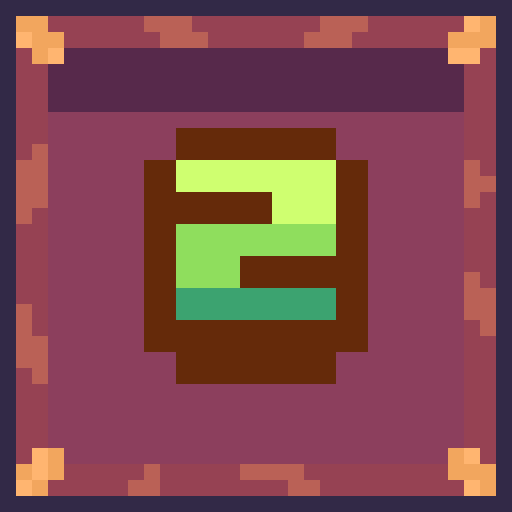
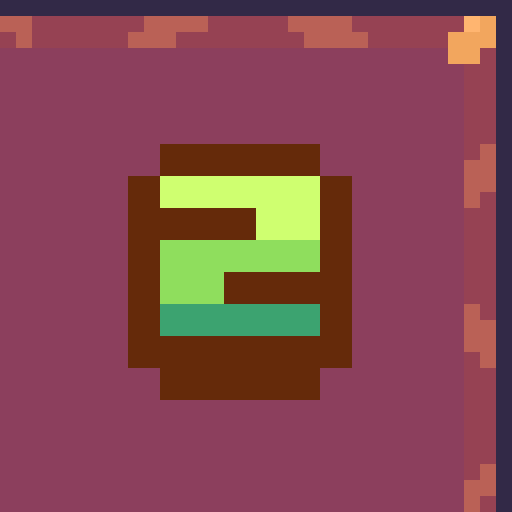
informações na tela de controle

diff --git a/App/TelaControle.java b/App/TelaControle.java
@@ -9,7 +9,7 @@ import java.awt.event.ActionEvent;
 import java.awt.event.ActionListener;
 
 public class TelaControle {
-	private JButton mochilaButton, setaCimaButton, setaEsqButton ,setaDirButton, setaBaixoButton;
+	private JButton mochilaButton, fimTurnoButton, setaCimaButton, setaEsqButton ,setaDirButton, setaBaixoButton;
     private JFrame telaControle;
     private JPanel painelControle;
     private JFrame telaMochila;
@@ -47,6 +47,7 @@ public class TelaControle {
         painelControle.setPreferredSize(new Dimension(300, 300));
 
         mochilaButton = criarBotaoControle("/Controles/mochila_ctrl.png", 100, 100, 100, 100);
+        fimTurnoButton = criarBotaoControle("/Controles/fim_turno.png", 100, 100, 0, 0);
 
         setaCimaButton = criarBotaoControle("/Controles/seta_cima.png", 100, 100, 100, 0);
         setaEsqButton = criarBotaoControle("/Controles/seta_esq.png", 100, 100, 0, 100);
@@ -55,6 +56,7 @@ public class TelaControle {
 
         // Adicionar os botões ao painel
         painelControle.add(mochilaButton);
+        painelControle.add(fimTurnoButton);
         painelControle.add(setaCimaButton);
         painelControle.add(setaEsqButton);
         painelControle.add(setaDirButton);
@@ -64,6 +66,11 @@ public class TelaControle {
             alternarMochila(jogadorAtual); // Alterna entre abrir ou fechar a mochila
             atualizarEstadoSetas(); // Atualiza as setas de acordo com o estado da mochila
         });
+        
+        fimTurnoButton.addActionListener(e -> {
+            finalizarTurno();
+        });
+
 
         
         configurarControles();
@@ -149,7 +156,7 @@ public class TelaControle {
         botao.setFocusPainted(false);
         botao.setContentAreaFilled(false);
         botao.setBounds(x, y, largura, altura);
-
+        
         return botao;
     }
     
@@ -179,17 +186,14 @@ public class TelaControle {
 
 
     private void gerarImagens(Graphics g, int matriz, int tamanhoImagem) {
-        ImageIcon canto1 = new ImageIcon(Menu.class.getResource("/Controles/canto1.png"));
-        ImageIcon canto2 = new ImageIcon(Menu.class.getResource("/Controles/canto2.png"));
+        ImageIcon canto2 = new ImageIcon(Menu.class.getResource(jogadorAtual.getDado()));
         ImageIcon canto3 = new ImageIcon(Menu.class.getResource("/Controles/canto3.png"));
-        ImageIcon canto4 = new ImageIcon(Menu.class.getResource("/Controles/canto4.png"));
+        ImageIcon canto4 = new ImageIcon(Menu.class.getResource(jogadorAtual.imgControle()));
     	
-        Image canto1Img = canto1.getImage();
         Image canto2Img = canto2.getImage();
         Image canto3Img = canto3.getImage();
         Image canto4Img = canto4.getImage();
     	
-        colocarElemento(g, canto1Img, new Point(0,0), tamanhoImagem);
         colocarElemento(g, canto2Img, new Point(2,0), tamanhoImagem);
         colocarElemento(g, canto3Img, new Point(0,2), tamanhoImagem);
         colocarElemento(g, canto4Img, new Point(2,2), tamanhoImagem);
@@ -228,13 +232,13 @@ public class TelaControle {
 
 
     private void moverJogador(Point destino) {
-    	int antigoX = jogadorAtual.getPosicao().x;
-    	int antigoY = jogadorAtual.getPosicao().y;
-    	
+        int antigoX = jogadorAtual.getPosicao().x;
+        int antigoY = jogadorAtual.getPosicao().y;
+
         // Calcula as novas coordenadas baseadas no movimento
         int novoX = antigoX + destino.x;
         int novoY = antigoY + destino.y;
-        
+
         // Obtém o mapa atual
         Object[][][] mapa = Menu.geracao.estadoMapa;
 
@@ -255,11 +259,13 @@ public class TelaControle {
             // Move o jogador para a nova posição considerando o custo
             Point posicaoFinal = jogadorAtual.mover(novaPosicao, mapa);
 
-            // Atualiza o mapa com a nova posição do jogador, que agora é a posição final (após pular a pedra)
+            // Atualiza o mapa com a nova posição do jogador
             mapa[posicaoFinal.y][posicaoFinal.x][1] = jogadorAtual;
             jogo.atualizarMapa(mapa);
 
-            // Exibe os movimentos restantes
+            // Força a repintura do painel para atualizar o canto 2
+            painelControle.repaint();
+
             System.out.println("Movimentos restantes: " + jogadorAtual.getMovimento());
         } else {
             System.out.println("Movimento inválido: não há movimentos suficientes.");
@@ -267,11 +273,14 @@ public class TelaControle {
 
         // Verifica se os movimentos do jogador acabaram e alterna para o próximo jogador
         if (jogadorAtual.acabouMovimentos()) {
-            telaControle.dispose(); // Fecha a tela atual
-            jogadorAtual.setMovimento(); // Rola novos movimentos para o próximo turno
-            new TelaControle(jogadorProx, jogadorAtual, jogo); // Alterna para o próximo jogador
+            finalizarTurno();
         }
     }
 
 
+    public void finalizarTurno() {
+        telaControle.dispose(); // Fecha a tela atual
+        jogadorAtual.setMovimento(); // Rola novos movimentos para o próximo turno
+        new TelaControle(jogadorProx, jogadorAtual, jogo); // Alterna para o próximo jogado
+    }
 }

diff --git a/Jogador/Jogador.java b/Jogador/Jogador.java
@@ -41,6 +41,14 @@ public class Jogador {
         return this.numero;
     }
     
+    public String imgControle() {
+    	if (this.numero == 1) {
+    		return "/Controles/jogador1_cntrl.png";
+    	}
+
+		return "/Controles/jogador2_cntrl.png";
+    }
+    
     /**
      * Obtém a força do jogador
      *
@@ -57,6 +65,47 @@ public class Jogador {
      */
     public int getMovimento(){
         return this.movimentos;
+    }
+    
+    public String getDado() {
+    	switch (this.movimentos) {
+			case 1: {
+				return "/dados/num_1.png";
+			}
+			case 2: {
+				return "/dados/num_2.png";
+			}
+			case 3: {
+				return "/dados/num_3.png";
+			}
+			case 4: {
+				return "/dados/num_4.png";
+			}
+			case 5: {
+				return "/dados/num_5.png";
+			}
+			case 6: {
+				return "/dados/num_6.png";
+			}
+			case 7: {
+				return "/dados/num_7.png";
+			}
+			case 8: {
+				return "/dados/num_8.png";
+			}
+			case 9: {
+				return "/dados/num_9.png";
+			}
+			case 10: {
+				return "/dados/num_10.png";
+			}
+			case 11: {
+				return "/dados/num_11.png";
+			}
+			default: {
+				return "/dados/num_12.png";
+			}
+    	}
     }
     
     public Point getPosicao() {
